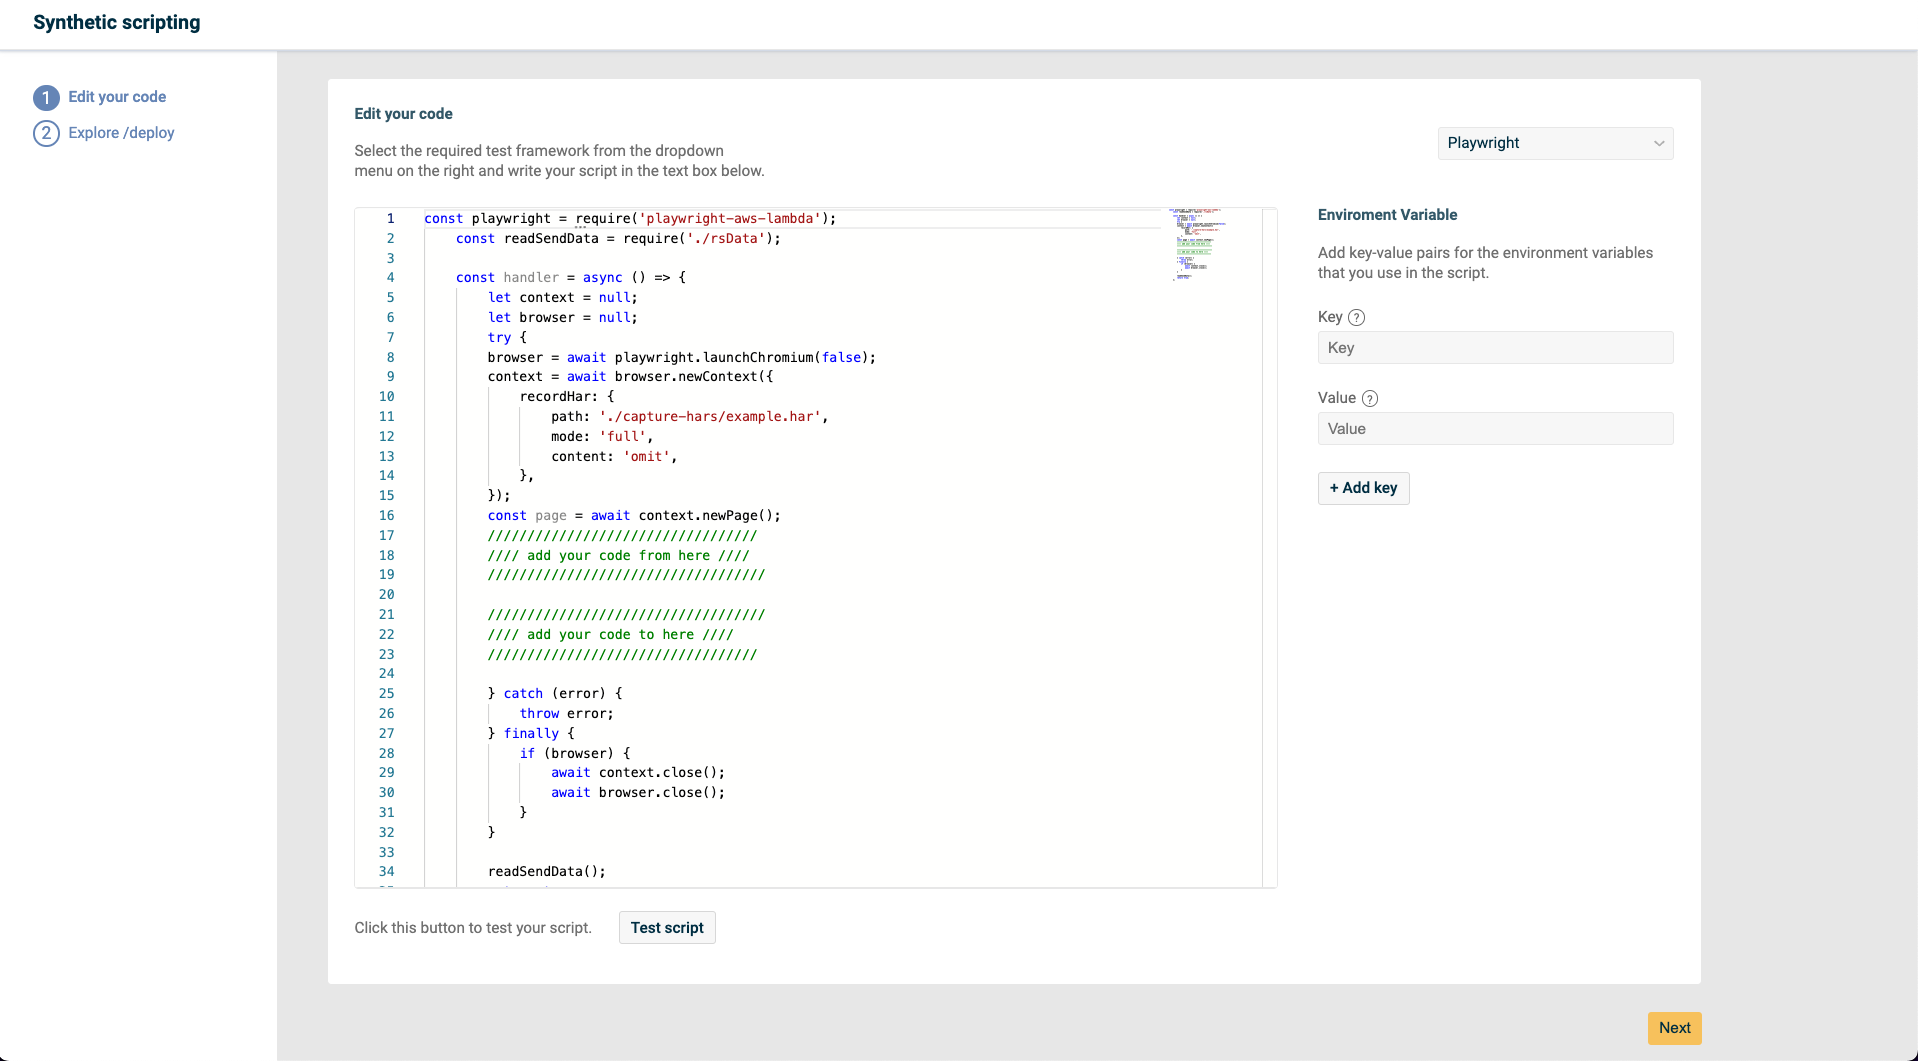
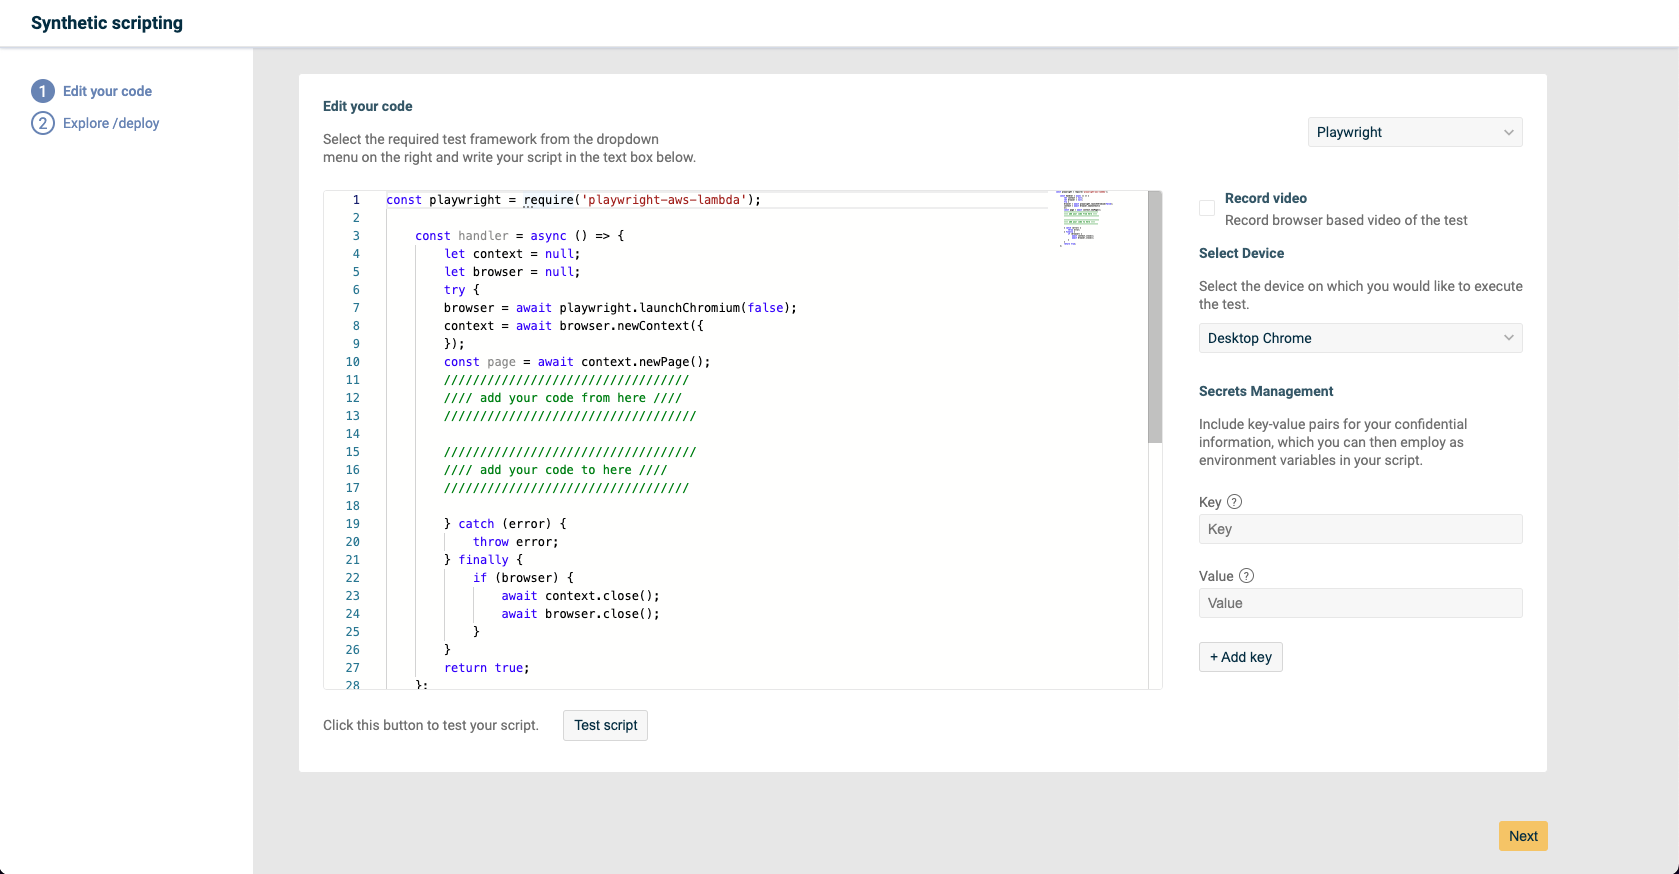
update readme (#14)
* update readme

* update link

diff --git a/utils/lambdaFunctionLocal/index.js b/utils/lambdaFunctionLocal/index.js
@@ -1,19 +1,36 @@
 const playwright = require('playwright-aws-lambda');
-const { chromium } = require('playwright-core');
-const path = require('path');
+	const { chromium } = require('playwright-core');
+	const path = require('path');
 
-const errorStatusHandler = require('./statusError');
+	const errorStatusHandler = require('./statusError');
+	
+	const handlerLocally = async () => {
+		let context = null;
+		let err = null;
+		let page = null;
+		let browser = null;
+		try {
+			
+			browser = await chromium.launch({});
+			context = await browser.newContext();
+			page = await context.newPage();
+	
 
-const handlerLocally = async () => {
-    let context = null;
-    let err = null;
-    let page = null;
-    let browser = null;
-    try {
-        browser = await chromium.launch({});
-        context = await browser.newContext();
-        page = await context.newPage();
-    } catch (error) {
+		
+await page.goto('https://logz.io/');
+
+
+await page.waitForSelector('.site-footer__menu_inner_col-2 > .site-footer__menu_group:nth-child(1) > .site-footer__menu_group_list > .site-footer__menu_group_item:nth-child(2) > a')
+await page.click('.site-footer__menu_inner_col-2 > .site-footer__menu_group:nth-child(1) > .site-footer__menu_group_list > .site-footer__menu_group_item:nth-child(2) > a')
+
+await page.waitForURL('**/careers/');
+
+await page.waitForSelector('.col-lg-12 > .colomn-footer:nth-child(4) > .footer_list > li:nth-child(2) > a')
+await page.click('.col-lg-12 > .colomn-footer:nth-child(4) > .footer_list > li:nth-child(2) > a')
+
+await page.waitForURL('**/blog/');				
+		
+       } catch (error) {
         err = error.message;
     } finally {
         if (browser) {
@@ -23,6 +40,7 @@ const handlerLocally = async () => {
     }
     let status = errorStatusHandler(err);
     return status;
+
 };
-handlerLocally();
+handlerLocally()
 // module.exports = handlerLocally;

diff --git a/service/lambdaFunction/rsData.js b/service/lambdaFunction/rsData.js
@@ -74,7 +74,7 @@ const readSendData = async (error = '') => {
             statusResult: error ? 0 : 1,
             sessionId,
             nameTest: process.env.NAME_FUNCTION,
-            videoUrl: `https://${process.env.BUCKET_NAME}.s3.amazonaws/${process.env.NAME_FUNCTION}/${sessionId}.mp4`,
+            videoUrl: `https://${process.env.BUCKET_NAME}.s3.amazonaws.com/${process.env.NAME_FUNCTION}/${sessionId}.mp4`,
         });
         await sleep(4000);
         logger.sendAndClose();

diff --git a/README.md b/README.md
@@ -32,14 +32,20 @@ Here you can define the code for your test using [playwright.dev](https://playwr
 
 Click the **Test Script** button to check if the code runs correctly.
 
-3. Define environment variables in the Environment Variables manager.
+3. Check if you want to record browser based video of your test.
+   ![UI record-video](assets/record-video.png)
+
+4. You can select device on what you want to start a test.
+   ![UI record-video](assets/select-device.png)
+
+5. Define environment variables in the Environment Variables manager.
    ![UI env-variable](assets/env-variable.png)
 
 In the Environment Variables manager you can define environment variables that can be attached to your Lambda function. You can use them in the Code editor as `process.env.KEY` and define the `KEY` parameter, which will be present in the Lambda function.
 
 **NOTE:** Prior to testing the code locally, fill in the KEY-VALUE fields for all environment variables used.
 
-4. Download the code as a template or deploy it directly to your cloud provider, using the `Explore/deploy` tab.
+6. Download the code as a template or deploy it directly to your cloud provider, using the `Explore/deploy` tab.
 
 ## Download as a template
 
@@ -72,6 +78,11 @@ Give your metrics a few minutes to get from your system to ours,
 and then open [Logz.io](https://app.logz.io/#/dashboard/metrics).
 
 ## Changelong
+
+1.2.0:
+
+-   Add option to record a browser based video of the test
+-   Store browser based videos of the test in S3 user bucket
 
 1.1.9:
 
